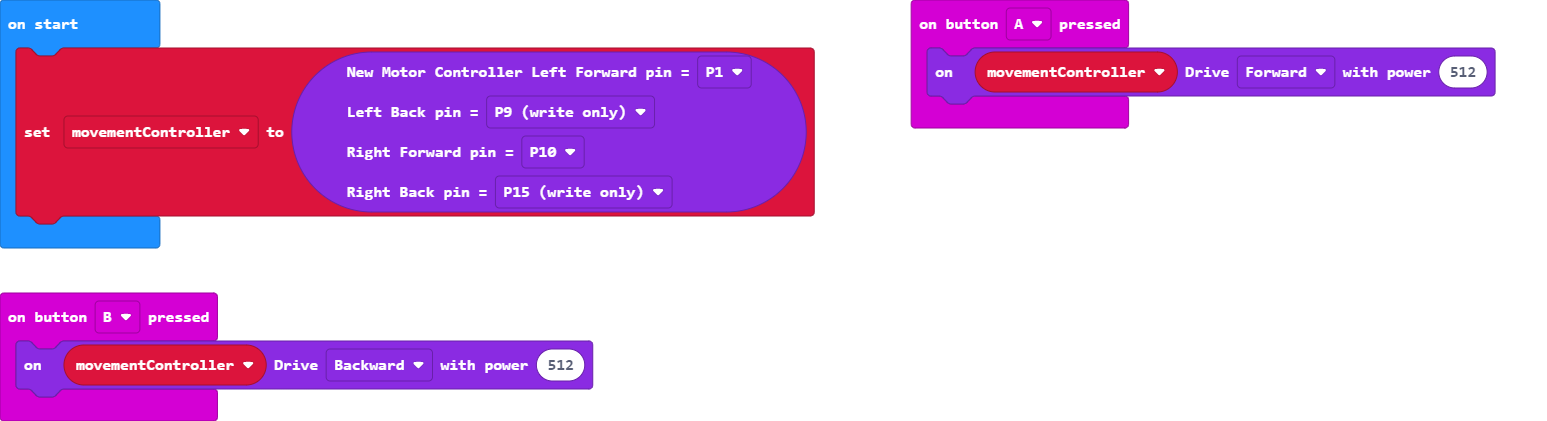
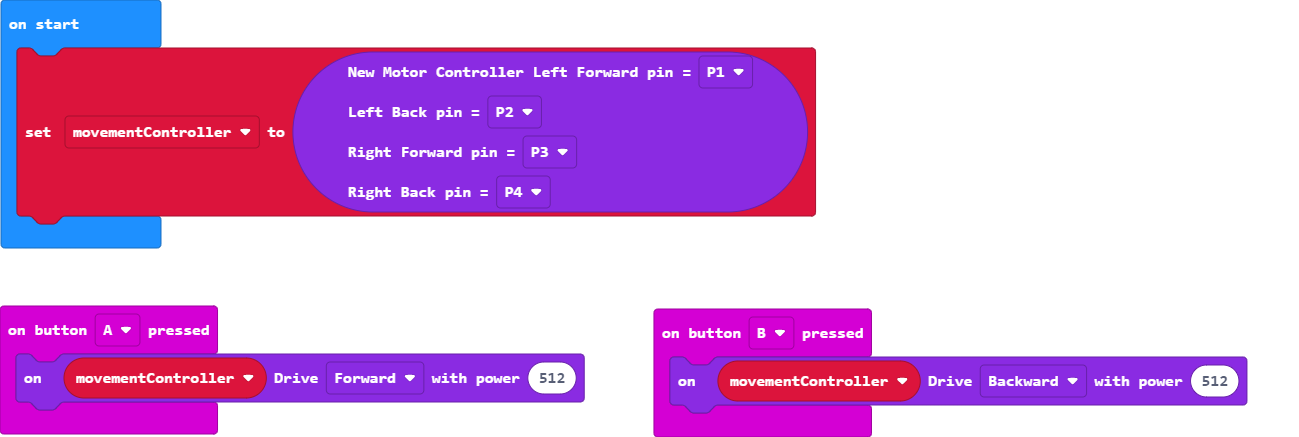
Update main.blocks, main.ts, custom.ts

Changed region(s): [[0.0, 0.0, 0.9854, 0.6176], [0.4927, 0.6793, 0.9854, 1.0], [0.0, 0.6793, 0.4619, 1.0]]

diff --git a/custom.ts b/custom.ts
@@ -25,10 +25,10 @@ namespace DualChannelFullHMovement
 
             this.defaultPower = 512;
 
-            pins.analogSetPeriod(this.leftForward,20000);
-            pins.analogSetPeriod(this.leftBackward,20000);
-            pins.analogSetPeriod(this.rightForward,20000);
-            pins.analogSetPeriod(this.rightBackward,20000);
+            pins.analogSetPeriod(this.leftForward,10000);
+            pins.analogSetPeriod(this.leftBackward,10000);
+            pins.analogSetPeriod(this.rightForward,10000);
+            pins.analogSetPeriod(this.rightBackward,10000);
         }
     }
     
@@ -142,7 +142,8 @@ namespace DualChannelFullHMovement
                         pins.analogWritePin(controller.leftForward, 0); 
                         pins.analogWritePin(controller.leftBackward, power); 
                         pins.analogWritePin(controller.rightForward, 0); 
-                        pins.analogWritePin(controller.rightBackward, 0);                            
+                        pins.analogWritePin(controller.rightBackward, 0); 
+                        break;                           
                     }
                     case MotorChannelSelection.Right:
                     {
@@ -150,6 +151,7 @@ namespace DualChannelFullHMovement
                         pins.analogWritePin(controller.leftBackward, 0); 
                         pins.analogWritePin(controller.rightForward, power); 
                         pins.analogWritePin(controller.rightBackward, 0); 
+                        break;
                     }
                     case MotorChannelSelection.Both:
                     {
@@ -157,6 +159,7 @@ namespace DualChannelFullHMovement
                         pins.analogWritePin(controller.leftBackward, power); 
                         pins.analogWritePin(controller.rightForward, power); 
                         pins.analogWritePin(controller.rightBackward, 0);
+                        break;
                     }
                 }
             }
@@ -170,6 +173,7 @@ namespace DualChannelFullHMovement
                         pins.analogWritePin(controller.leftBackward, 0); 
                         pins.analogWritePin(controller.rightForward, 0); 
                         pins.analogWritePin(controller.rightBackward, 0);
+                        break;
                     }
                     case MotorChannelSelection.Right:
                     {
@@ -177,6 +181,7 @@ namespace DualChannelFullHMovement
                         pins.analogWritePin(controller.leftBackward, 0); 
                         pins.analogWritePin(controller.rightForward, 0); 
                         pins.analogWritePin(controller.rightBackward, power);
+                        break;
                     }
                     case MotorChannelSelection.Both:
                     {
@@ -184,6 +189,7 @@ namespace DualChannelFullHMovement
                         pins.analogWritePin(controller.leftBackward, 0); 
                         pins.analogWritePin(controller.rightForward, 0); 
                         pins.analogWritePin(controller.rightBackward, power);
+                        break;
                     }
                 }
             }
@@ -219,6 +225,7 @@ namespace DualChannelFullHMovement
                 pins.analogWritePin(controller.leftBackward, 0); 
                 pins.analogWritePin(controller.rightForward, power); 
                 pins.analogWritePin(controller.rightBackward, 0);
+                break;
             }
             case MoveDirection.Backward:
             {
@@ -226,6 +233,7 @@ namespace DualChannelFullHMovement
                 pins.analogWritePin(controller.leftBackward, power); 
                 pins.analogWritePin(controller.rightForward, 0); 
                 pins.analogWritePin(controller.rightBackward, power);
+                break;
             }
         }
     }
@@ -246,14 +254,17 @@ namespace DualChannelFullHMovement
             case MotorChannelSelection.Left:
             {
 
+                break;
             }
             case MotorChannelSelection.Right:
             {
 
+                break;
             }
             case MotorChannelSelection.Both:
             {
 
+                break;
             }
         }
     }

diff --git a/main.ts b/main.ts
@@ -7,7 +7,7 @@ input.onButtonPressed(Button.B, function () {
 let movementController: DualChannelFullHMovement.MotorController = null
 movementController = DualChannelFullHMovement.SetupMotorController(
 AnalogPin.P1,
-AnalogPin.P9,
-AnalogPin.P10,
-AnalogPin.P15
+AnalogPin.P2,
+AnalogPin.P3,
+AnalogPin.P4
 )
